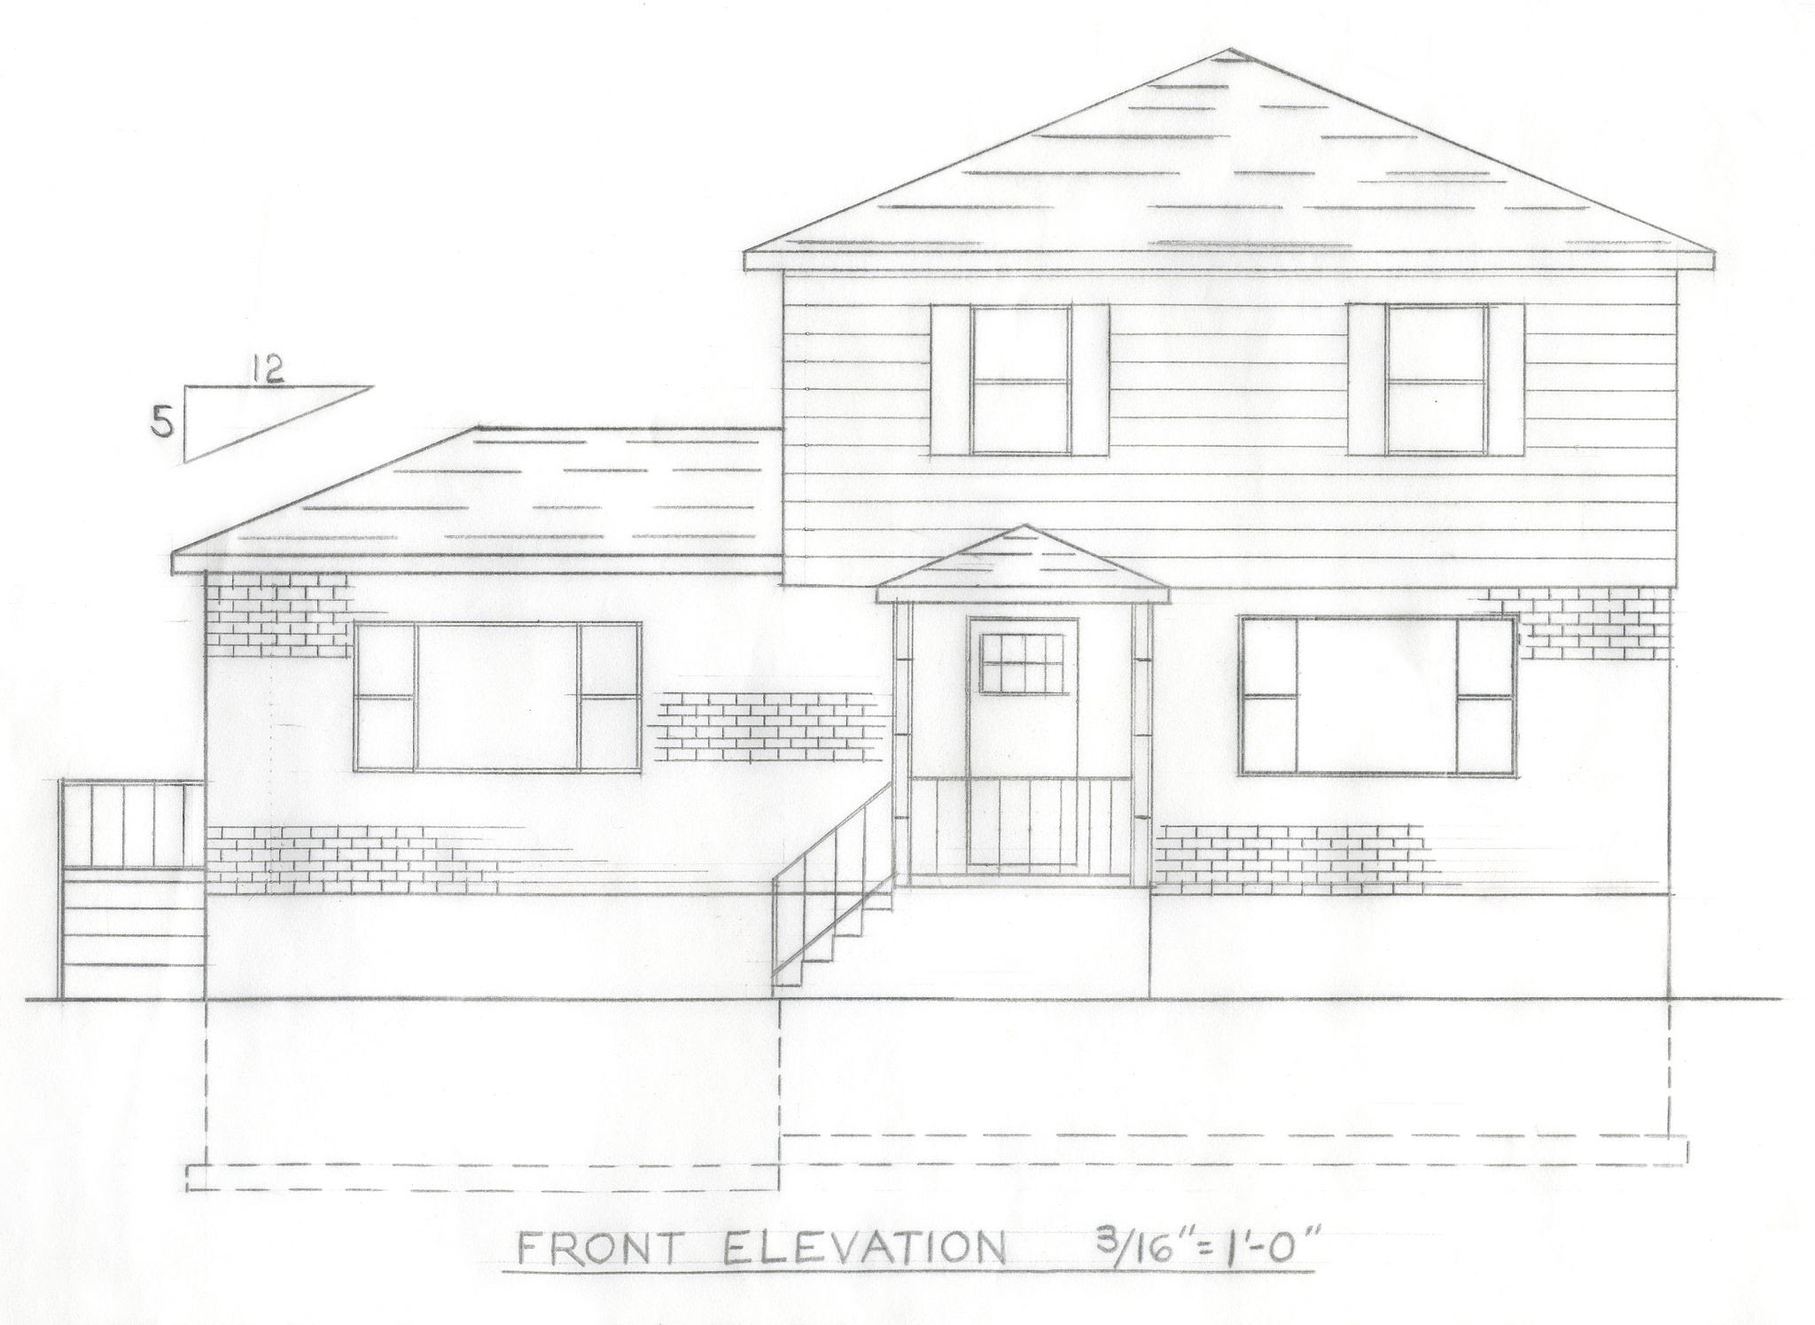
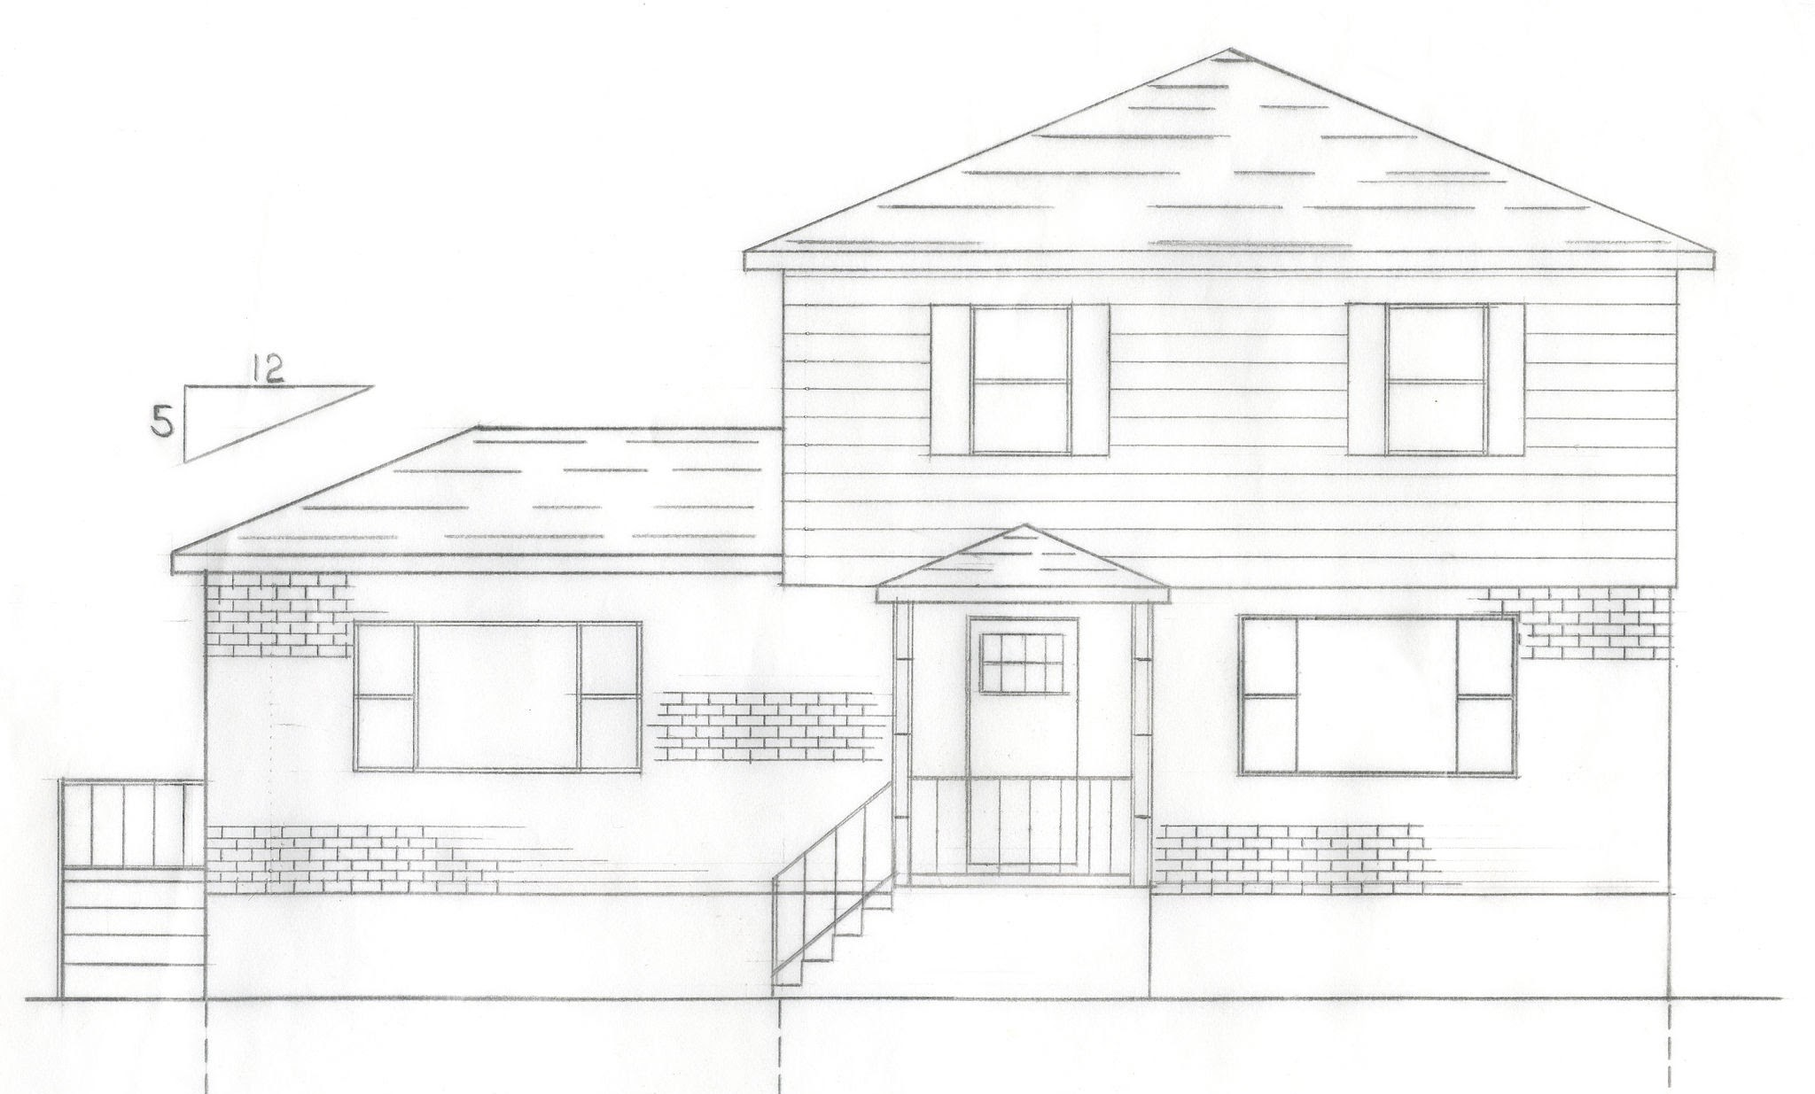
images add in home and engineering menu

Changed region(s): [[0.0312, 0.0308, 0.9688, 0.9846], [0.0625, 0.3692, 0.0938, 0.4], [0.0625, 0.3077, 0.0938, 0.3385]]

diff --git a/src/pages/engineeringServices/structuralDesign/HowItWorks.jsx b/src/pages/engineeringServices/structuralDesign/HowItWorks.jsx
@@ -6,6 +6,7 @@ import {
   HiOutlinePencilAlt, 
   HiOutlineShieldCheck 
 } from 'react-icons/hi';
+ import structuralStepImage from '../../../assets/engineeringAssets/structural-Steps.png';
 
 const HowItWorksCompact = () => {
   // Step-by-step structural engineering lifecycle data
@@ -35,77 +36,92 @@ const HowItWorksCompact = () => {
   return (
     <section className="py-20 px-6 md:px-16 bg-white font-sans text-gray-800 antialiased w-full overflow-hidden">
       <div className="max-w-7xl mx-auto">
-        
-        {/* ================= CENTERED HEADING BLOCK ================= */}
-        <div className="text-center max-w-2xl mx-auto mb-16">
-          <span className="text-xs font-bold text-[#A43025] uppercase tracking-widest block mb-2">
-            Execution Strategy
-          </span>
-          <h2 className="text-3xl md:text-4xl font-bold text-gray-900 tracking-tight mb-4">
-            Our Structural Process Flow
-          </h2>
-          <div className="w-16 h-1 bg-[#A43025] mx-auto mb-4 rounded-full"></div>
-          <p className="text-gray-500 text-sm md:text-base font-light leading-relaxed">
-            How we translate your initial architectural design concepts into verified, engineering-grade structural layouts.
-          </p>
-        </div>
 
-        {/* ================= COMPACT SPLIT LAYOUT ================= */}
-        <div className="grid grid-cols-1 lg:grid-cols-12 gap-8 lg:gap-12 items-stretch">
+{/* ================= CENTERED HEADING BLOCK ================= */}
+<div className="text-center max-w-2xl mx-auto mb-16">
+  <span className="text-xs font-bold text-[#A43025] uppercase tracking-widest block mb-2">
+    Execution Strategy
+  </span>
+
+  <h2 className="text-3xl md:text-4xl font-bold text-gray-900 tracking-tight mb-4">
+    Our Structural Process Flow
+  </h2>
+
+  <div className="w-16 h-1 bg-[#A43025] mx-auto mb-4 rounded-full"></div>
+
+  <p className="text-gray-500 text-sm md:text-base font-light leading-relaxed">
+    How we translate your initial architectural design concepts into verified,
+    engineering-grade structural layouts.
+  </p>
+</div>
+
+{/* ================= SPLIT LAYOUT ================= */}
+<div className="grid grid-cols-1 lg:grid-cols-12 gap-8 lg:gap-8 items-stretch">
+  
+  {/* LEFT SIDE: BIGGER IMAGE */}
+  <div className="lg:col-span-6 w-full h-72 sm:h-[500px] lg:h-auto min-h-[500px]">
+    <div className="w-full h-full rounded-2xl overflow-hidden relative border border-gray-100 shadow-sm group">
+      
+      <div className="absolute inset-0 bg-[#A43025]/5 group-hover:bg-transparent transition-colors duration-300 z-10"></div>
+
+      <img 
+        src={structuralStepImage}
+        alt="Structural Engineering Process Framework"
+        className="w-full h-full object-cover-contain group-hover:scale-105 transition-all duration-500 ease-out"
+      />
+    </div>
+  </div>
+
+  {/* RIGHT SIDE: SMALLER TEXT WIDTH */}
+  <div className="lg:col-span-6 relative flex flex-col justify-between py-2 pl-4 sm:pl-6">
+    
+    {/* Vertical Line */}
+    <div className="absolute left-[20px] top-4 bottom-4 w-[2px] bg-gray-100 z-0" />
+
+    {/* Steps */}
+    <div className="space-y-6">
+      {steps.map((step, idx) => (
+        <motion.div
+          key={idx}
+          initial={{ opacity: 0, x: 20 }}
+          whileInView={{ opacity: 1, x: 0 }}
+          transition={{
+            duration: 0.4,
+            delay: idx * 0.1,
+            ease: "easeOut"
+          }}
+          viewport={{ once: true, margin: "-20px" }}
+          className="relative z-10 flex items-start space-x-4 group pl-1.5"
+        >
           
-          {/* LEFT SIDE: SINGLE IMAGE BLOCK */}
-          <div className="lg:col-span-5 w-full h-64 sm:h-96 lg:h-auto min-h-[320px]">
-            <div className="w-full h-full rounded-2xl overflow-hidden relative border border-gray-100 shadow-sm group">
-              <div className="absolute inset-0 bg-[#A43025]/5 group-hover:bg-transparent transition-colors duration-300 z-10"></div>
-              <img 
-                src="https://images.unsplash.com/photo-1503387762-592deb58ef4e?q=80&w=800&auto=format&fit=crop" 
-                alt="Structural Engineering Process Framework" 
-                className="w-full h-full object-cover grayscale group-hover:grayscale-0 scale-100 group-hover:scale-105 transition-all duration-500 ease-out"
-              />
-            </div>
+          {/* Icon */}
+          <div className="w-9 h-9 rounded-full bg-white border-2 border-[#A43025] text-[#A43025] text-base flex items-center justify-center shrink-0 mt-0.5 shadow-sm group-hover:bg-[#A43025] group-hover:text-white transition-all duration-300">
+            {step.icon}
           </div>
 
-          {/* RIGHT SIDE: VERTICAL TIMELINE WITH COMPACT STEPS */}
-          <div className="lg:col-span-7 relative flex flex-col justify-between py-2 pl-4 sm:pl-6">
-            
-            {/* Clean Vertical Line Indicator */}
-            <div className="absolute left-[20px] top-4 bottom-4 w-[2px] bg-gray-100 z-0" />
+          {/* Text */}
+          <div className="flex flex-col space-y-1 pt-0.5">
+            <h4 className="text-base sm:text-lg font-bold text-gray-900 group-hover:text-[#A43025] transition-colors duration-300">
+              <span className="font-mono text-xs font-semibold mr-1.5 text-gray-400">
+                0{idx + 1}.
+              </span>
+              {step.title}
+            </h4>
 
-            {/* Steps Map */}
-            <div className="space-y-6">
-              {steps.map((step, idx) => (
-                <motion.div
-                  key={idx}
-                  initial={{ opacity: 0, x: 20 }}
-                  whileInView={{ opacity: 1, x: 0 }}
-                  transition={{ duration: 0.4, delay: idx * 0.1, ease: "easeOut" }}
-                  viewport={{ once: true, margin: "-20px" }}
-                  className="relative z-10 flex items-start space-x-4 group pl-1.5"
-                >
-                  {/* Step Axis Node / Icon Wrapper */}
-                  <div className="w-9 h-9 rounded-full bg-white border-2 border-[#A43025] text-[#A43025] text-base flex items-center justify-center shrink-0 mt-0.5 shadow-sm group-hover:bg-[#A43025] group-hover:text-white transition-all duration-300">
-                    {step.icon}
-                  </div>
-
-                  {/* Text Description Stack */}
-                  <div className="flex flex-col space-y-1 pt-0.5">
-                    <h4 className="text-base sm:text-lg font-bold text-gray-900 group-hover:text-[#A43025] transition-colors duration-300">
-                      <span className="font-mono text-xs font-semibold mr-1.5 text-gray-400">0{idx + 1}.</span>
-                      {step.title}
-                    </h4>
-                    <p className="text-gray-500 text-xs sm:text-sm font-light leading-relaxed max-w-2xl">
-                      {step.desc}
-                    </p>
-                  </div>
-                </motion.div>
-              ))}
-            </div>
-
+            <p className="text-gray-500 text-xs sm:text-sm font-light leading-relaxed max-w-xl">
+              {step.desc}
+            </p>
           </div>
 
-        </div>
+        </motion.div>
+      ))}
+    </div>
 
-      </div>
+  </div>
+
+</div>
+
+</div>
     </section>
   );
 };

diff --git a/src/pages/engineeringServices/structuralDesign/StructuralDesign.jsx b/src/pages/engineeringServices/structuralDesign/StructuralDesign.jsx
@@ -4,6 +4,8 @@ import { HiOutlineCheckCircle, HiOutlineArrowSmRight } from 'react-icons/hi';
 import StructuralServices from './StructuralServices';
 import HowItWorks from './HowItWorks';
 import StructuralFAQ from './StructuralFAQ';
+import structuralImage from "../../../assets/engineeringAssets/structural.png"
+
 
 const StructuralDesign = () => {
   // Core technical capabilities list
@@ -63,16 +65,16 @@ const StructuralDesign = () => {
             whileInView={{ opacity: 1, scale: 1 }}
             transition={{ duration: 0.7, ease: "easeOut" }}
             viewport={{ once: true, margin: "-40px" }}
-            className="w-full h-[300px] sm:h-[400px] lg:h-[520px] overflow-hidden rounded-2xl shadow-lg relative group bg-gray-50"
+            className="w-full h-[300px] sm:h-[400px] lg:h-[520px] overflow-hidden rounded-2xl relative group bg-gray-50"
           >
             {/* Visual branding color overlay matrix */}
-            <div className="absolute inset-0 bg-[#A43025]/5 group-hover:bg-transparent transition-colors z-10 duration-500"></div>
+            <div className="absolute inset-0 group-hover:bg-transparent transition-colors z-10 duration-500"></div>
             
             {/* Structural Blueprint Drawing Image Reference Tag */}
             <img 
-              src="https://images.unsplash.com/photo-1503387762-592deb58ef4e?q=80&w=800&auto=format&fit=crop" 
-              alt="NaxusEDS Structural Engineering Blueprint Detailing" 
-              className="w-full h-full object-cover object-center grayscale group-hover:grayscale-0 scale-100 group-hover:scale-105 transition-all duration-700 ease-out"
+              src={structuralImage}
+              alt="NaxusEDS Structural Engineering Detailing" 
+              className="w-full h-full object-cover-contain object-center group-hover:white-0 scale-100 group-hover:scale-105 transition-all duration-700 ease-out"
             />
           </motion.div>
         </div>

diff --git a/src/pages/engineeringServices/civilEngineeringPages/CivilEngineering.jsx b/src/pages/engineeringServices/civilEngineeringPages/CivilEngineering.jsx
@@ -8,6 +8,7 @@ import CivilWhyChoose from './CivilWhyChoose';
 import CivilWorkFlow from './CivilWorkFlow';
 import CivilProjects from './CivilProjects';
 import ContactCTA from '../../../components/ContactCTA';
+import civilImage from '../../../assets/images/architect6.png';
 
 
   
@@ -71,16 +72,16 @@ const CivilEngineering = () => {
             whileInView={{ opacity: 1, scale: 1 }}
             transition={{ duration: 0.7, ease: "easeOut" }}
             viewport={{ once: true, margin: "-40px" }}
-            className="w-full h-[300px] sm:h-[400px] lg:h-[520px] overflow-hidden rounded-2xl shadow-lg relative group bg-gray-50"
+            className="w-full h-[300px] sm:h-[400px] lg:h-[520px] overflow-hidden relative"
           >
             {/* Visual theme color filter matrix */}
-            <div className="absolute inset-0 bg-[#A43025]/5 group-hover:bg-transparent transition-colors z-10 duration-500"></div>
+            <div className="absolute inset-0 group-hover:bg-transparent transition-colors z-10 duration-500"></div>
             
             {/* Native Image Component Tag */}
             <img 
-              src="https://images.unsplash.com/photo-1541888946425-d81bb19240f5?q=80&w=800&auto=format&fit=crop" 
+              src={civilImage}
               alt="NaxusEDS Civil Engineering Infrastructure Site Blueprint Plan" 
-              className="w-full h-full object-cover object-center grayscale group-hover:grayscale-0 scale-100 group-hover:scale-105 transition-all duration-700 ease-out"
+              className="w-full h-full object-cover-contain object-center group-hover:white-0 scale-100 group-hover:scale-105 transition-all duration-700 ease-out"
             />
           </motion.div>
         </div>

diff --git a/src/pages/homePages/WhyChoose.jsx b/src/pages/homePages/WhyChoose.jsx
@@ -6,31 +6,35 @@ import {
   HiOutlineGlobeAlt
 } from 'react-icons/hi';
 import { motion } from 'framer-motion';
+import whyChoose1 from '../../assets/images/architect3.jpg';
+import whyChoose2 from '../../assets/images/architect4.jpg';
+import whyChoose3 from '../../assets/images/architect5.jpg';
+import whyChoose4 from '../../assets/images/architect6.png';
 
 const features = [
   { 
     title: "Deep Domain Expertise", 
     desc: "Engage with a highly qualified and experienced team of subject matter experts.", 
     icon: <HiOutlineUserGroup />,
-    img: "https://images.unsplash.com/photo-1600585154526-990dced4db0d?q=80&w=600&auto=format&fit=crop"
+    img: whyChoose1
   },
   { 
     title: "Unparalleled Efficiency", 
     desc: "Experience hands-on guidance and support right from project initiation to end delivery.", 
     icon: <HiOutlineLink />,
-    img: "https://images.unsplash.com/photo-1541888946425-d81bb19240f5?q=80&w=600&auto=format&fit=crop"
+    img: whyChoose2
   },
   { 
     title: "Rapid TAT and Delivery", 
     desc: "Eliminate worries about time zones and experience instant turnarounds.", 
     icon: <HiOutlineClock />,
-    img: "https://images.unsplash.com/photo-1504307651254-35680f356dfd?q=80&w=600&auto=format&fit=crop"
+    img: whyChoose3
   },
   { 
     title: "Client Centric Workflow", 
     desc: "Get round-the-clock updates from an agile team with dedicated client communication.", 
     icon: <HiOutlineGlobeAlt />,
-    img: "https://images.unsplash.com/photo-1600607687939-ce8a6c25118c?q=80&w=600&auto=format&fit=crop"
+    img: whyChoose4
   },
 ];
 

diff --git a/src/pages/engineeringServices/mepServicesPages/MepHero.jsx b/src/pages/engineeringServices/mepServicesPages/MepHero.jsx
@@ -2,6 +2,7 @@ import React from 'react';
 import MepDesignAndStats from './MepdesignAndStats';
 import MepServicesBlocks from './MepServicesBlocks';
 import MepWhyChooseUs from './MepWhyChooseUs';
+import mepHeroImage from '../../../assets/engineeringAssets/mep-hero.png';
 
 export default function MepHero() {
   // All hero layout configuration, copy changes for NaxusEDS, and styling contained inside a single component and return statement
@@ -40,11 +41,11 @@ export default function MepHero() {
         <div className="relative w-full h-[320px] sm:h-[400px] lg:h-[500px] order-1 lg:order-2 flex items-center justify-center">
           {/* Subtle geometric framing layer to support the white background theme */}
           <div className="absolute inset-0 bg-red-50/50 rounded-3xl transform rotate-3 scale-95 pointer-events-none"></div>
-          <div className="absolute -bottom-4 -left-4 w-24 h-24 bg-red-50 rounded-xl -z-10 hidden sm:block"></div>
+          <div className="absolute -bottom-4 -left-4 w-24 h-24 rounded-xl -z-10 hidden sm:block"></div>
           
-          <div className="w-full h-full rounded-2xl overflow-hidden border border-neutral-200 shadow-md relative">
+          <div className="w-full h-full rounded-2xl overflow-hidden relative">
             <img 
-              src="https://images.unsplash.com/photo-1581092160607-ee22621dd758?auto=format&fit=crop&w=800&q=80" 
+              src={mepHeroImage}
               alt="NaxusEDS MEP Building Systems Engineering" 
               className="w-full h-full object-cover object-center"
             />

diff --git a/src/pages/engineeringServices/poolServices/PoolEngineeringHero.jsx b/src/pages/engineeringServices/poolServices/PoolEngineeringHero.jsx
@@ -1,6 +1,7 @@
 import React from 'react';
 import PoolEngineeringAbout from './PoolEngineeringAbout';
 import PoolEngineeringWhyChooseUs from './PoolEngineeringWhyChooseUs';
+import poolHeroImage from '../../../assets/engineeringAssets/pool-hero.jpg';
 
 export default function PoolEngineeringHero() {
   // All pool layout configuration, copy changes for NaxusEDS, and styling contained inside a single component and return statement
@@ -37,11 +38,11 @@ export default function PoolEngineeringHero() {
           <div className="absolute inset-0 bg-red-50/50 rounded-3xl transform rotate-3 scale-95 pointer-events-none"></div>
           <div className="absolute -bottom-4 -left-4 w-24 h-24 bg-red-50 rounded-xl -z-10 hidden sm:block"></div>
           
-          <div className="w-full h-full rounded-2xl overflow-hidden border border-neutral-200 shadow-md relative">
+          <div className="w-full h-full rounded-2xl overflow-hidden relative">
             <img 
-              src="https://images.unsplash.com/photo-1576013551627-0cc20b96c2a7?auto=format&fit=crop&w=800&q=80" 
+              src={poolHeroImage}
               alt="NaxusEDS Luxury Commercial Pool System Design and Filtration Integration" 
-              className="w-full h-full object-cover object-center"
+              className="w-full h-full object-cover-contain object-center"
             />
             {/* Status overlay badge */}
             <div className="absolute bottom-4 right-4 bg-white/95 backdrop-blur-sm border border-neutral-200 px-4 py-2 rounded-lg flex items-center gap-2 shadow-sm">

diff --git a/src/components/ContactCTA.jsx b/src/components/ContactCTA.jsx
@@ -6,6 +6,8 @@ import {
   HiOutlinePhone, 
   HiOutlineArrowSmRight 
 } from 'react-icons/hi';
+import contactImage from '../assets/images/architectural1.jpg'
+
 
 const ContactCTA = () => {
   return (
@@ -96,12 +98,12 @@ const ContactCTA = () => {
             whileInView={{ opacity: 1, scale: 1 }}
             transition={{ duration: 0.8, ease: "easeOut" }}
             viewport={{ once: true }}
-            className="w-full h-[350px] sm:h-[450px] lg:h-[580px] overflow-hidden rounded-2xl shadow-xl relative group"
+            className="w-full h-[350px] sm:h-[450px] lg:h-[580px] relative group"
           >
             {/* Architectural structural preview background matrix */}
-            <div className="absolute inset-0 bg-[#A43025]/10 group-hover:bg-transparent transition-colors z-10 duration-500"></div>
+            <div className="absolute inset-0 group-hover:bg-transparent transition-colors z-10 duration-500"></div>
             <img 
-              src="https://images.unsplash.com/photo-1600585154340-be6161a56a0c?q=80&w=1470&auto=format&fit=crop" 
+              src={contactImage}
               alt="NaxusEDS Architectural Solutions" 
               className="w-full h-full object-cover object-center scale-100 group-hover:scale-105 transition-all duration-700 ease-out"
             />

diff --git a/src/pages/architecturalServices/architectural/ArchitecturalHero.jsx b/src/pages/architecturalServices/architectural/ArchitecturalHero.jsx
@@ -5,6 +5,7 @@ import ReviewCarousel from './ReviewCarousel';
 import Workflow from './Workflow';
 import FAQ from './FAQ';
 import WhyChooseUs from './WhyChooseUs';
+import architecturalHeroImage from '../../../assets/images/architectural1.jpg';
 
 export default function ArchitecturalHero() {
   return (
@@ -55,9 +56,9 @@ export default function ArchitecturalHero() {
 
         {/* Right Side: Image */}
         <div className="order-1 lg:order-2 w-full">
-          <div className="relative aspect-[4/3] sm:aspect-[16/10] lg:aspect-[4/3] rounded-2xl overflow-hidden shadow-xl shadow-slate-200">
+          <div className="relative aspect-[4/3] sm:aspect-[16/10] lg:aspect-[4/3] rounded-2xl overflow-hidden">
             <img
-              src="https://images.unsplash.com/photo-1503387762-592deb58ef4e?auto=format&fit=crop&w=1200&q=80"
+              src={architecturalHeroImage}
               alt="Architectural blueprints and drafting tools"
               className="w-full h-full object-cover transform hover:scale-105 transition-transform duration-500 ease-out"
             />

diff --git a/src/pages/homePages/AboutSection.jsx b/src/pages/homePages/AboutSection.jsx
@@ -1,5 +1,6 @@
 import React from 'react';
 import { motion } from 'framer-motion';
+import architecturalImage from '../../assets/images/architectural1.jpg';
 
 const AboutSection = () => {
   return (
@@ -17,9 +18,9 @@ const AboutSection = () => {
           <div className="relative">
             {/* Main Image */}
             <img 
-              src="https://images.unsplash.com/photo-1503387762-592deb58ef4e?q=80&w=2062&auto=format&fit=crop" 
+              src={architecturalImage} 
               alt="About NaxusEDS" 
-              className="w-full h-[400px] md:h-[550px] object-cover rounded-sm shadow-2xl"
+              className="w-full h-[400px] md:h-[550px] object-cover "
             />
             {/* Decorative Accent Square */}
             <div className="absolute -bottom-6 -left-6 w-32 h-32 bg-[#A43025] -z-10 hidden md:block"></div>

diff --git a/src/pages/homePages/HeroSection.jsx b/src/pages/homePages/HeroSection.jsx
@@ -5,6 +5,7 @@ import WhyChoose from "./WhyChoose";
 import ContactCTA from "../../components/ContactCTA";
 import Reviews from "./Reviews";
 import heroImage from "../../assets/images/hero-img.jpg";
+import { Link } from "react-router-dom";
 
 
 const HeroSection = () => {
@@ -112,6 +113,7 @@ const HeroSection = () => {
           </svg>
         </motion.button>
 
+        <Link to="/contact-us">
         <motion.a
           href="#"
           whileHover={{ x: 3 }}
@@ -128,6 +130,7 @@ const HeroSection = () => {
             />
           </svg>
         </motion.a>
+        </Link>
       </motion.div>
 
       <motion.div
